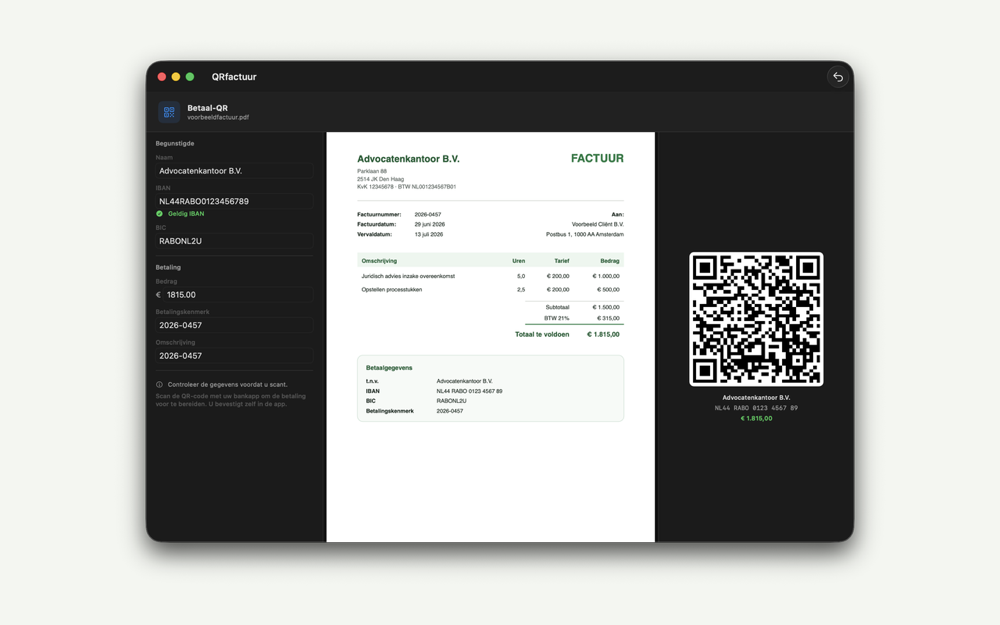
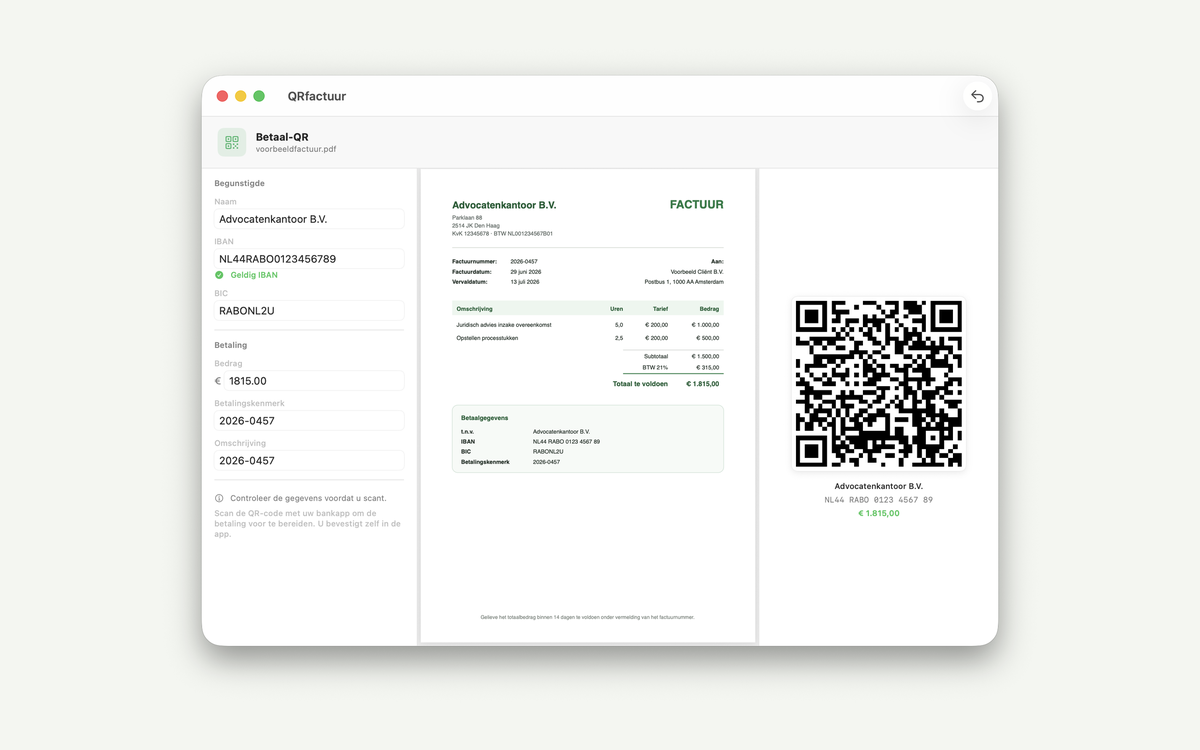
updates screenshots

diff --git a/qrfactuur/index.html b/qrfactuur/index.html
@@ -41,12 +41,14 @@
   <div class="hv">
     <div class="carousel">
       <div class="car-track">
-        <div class="car-slide active"><img src="screenshots/betaal-qr.png" alt="QRfactuur: betaalgegevens, factuur-voorvertoning en de live betaal-QR" style="border-radius:12px;box-shadow:0 18px 44px rgba(0,0,0,0.14)"></div>
-        <div class="car-slide"><img src="screenshots/welkom.png" alt="QRfactuur welkomscherm" style="border-radius:12px;box-shadow:0 18px 44px rgba(0,0,0,0.14)"></div>
+        <div class="car-slide active"><img src="screenshots/welkom.png?v=2" alt="QRfactuur welkomscherm: kies tussen een factuur betalen of een QR op je eigen factuur" style="border-radius:12px;box-shadow:0 18px 44px rgba(0,0,0,0.14)"></div>
+        <div class="car-slide"><img src="screenshots/betaal-qr.png?v=2" alt="QRfactuur: betaalgegevens, factuur-voorvertoning en de live betaal-QR" style="border-radius:12px;box-shadow:0 18px 44px rgba(0,0,0,0.14)"></div>
+        <div class="car-slide"><img src="screenshots/qr-op-factuur.png?v=2" alt="QRfactuur: een betaal-QR op je eigen factuur, klaar om te kopiëren of als PDF te exporteren" style="border-radius:12px;box-shadow:0 18px 44px rgba(0,0,0,0.14)"></div>
       </div>
       <div class="car-dots">
-        <button class="car-dot active" onclick="showSlide(0)" aria-label="Betaal-QR"></button>
-        <button class="car-dot" onclick="showSlide(1)" aria-label="Welkom"></button>
+        <button class="car-dot active" onclick="showSlide(0)" aria-label="Welkom"></button>
+        <button class="car-dot" onclick="showSlide(1)" aria-label="Betaal-QR"></button>
+        <button class="car-dot" onclick="showSlide(2)" aria-label="QR op je eigen factuur"></button>
       </div>
     </div>
   </div>
@@ -104,7 +106,7 @@ function showSlide(n){
   carIdx=n;
 }
 var carIdx=0;
-setInterval(function(){ carIdx=(carIdx+1)%2; showSlide(carIdx); }, 4500);
+setInterval(function(){ carIdx=(carIdx+1)%3; showSlide(carIdx); }, 4500);
 </script>
 <!-- Cloudflare Web Analytics --><script defer src="https://static.cloudflareinsights.com/beacon.min.js" data-cf-beacon='{"token": "ef8eed3faf3d45708bfdc234f0f8e7bd"}'></script><!-- End Cloudflare Web Analytics -->
 </body>
